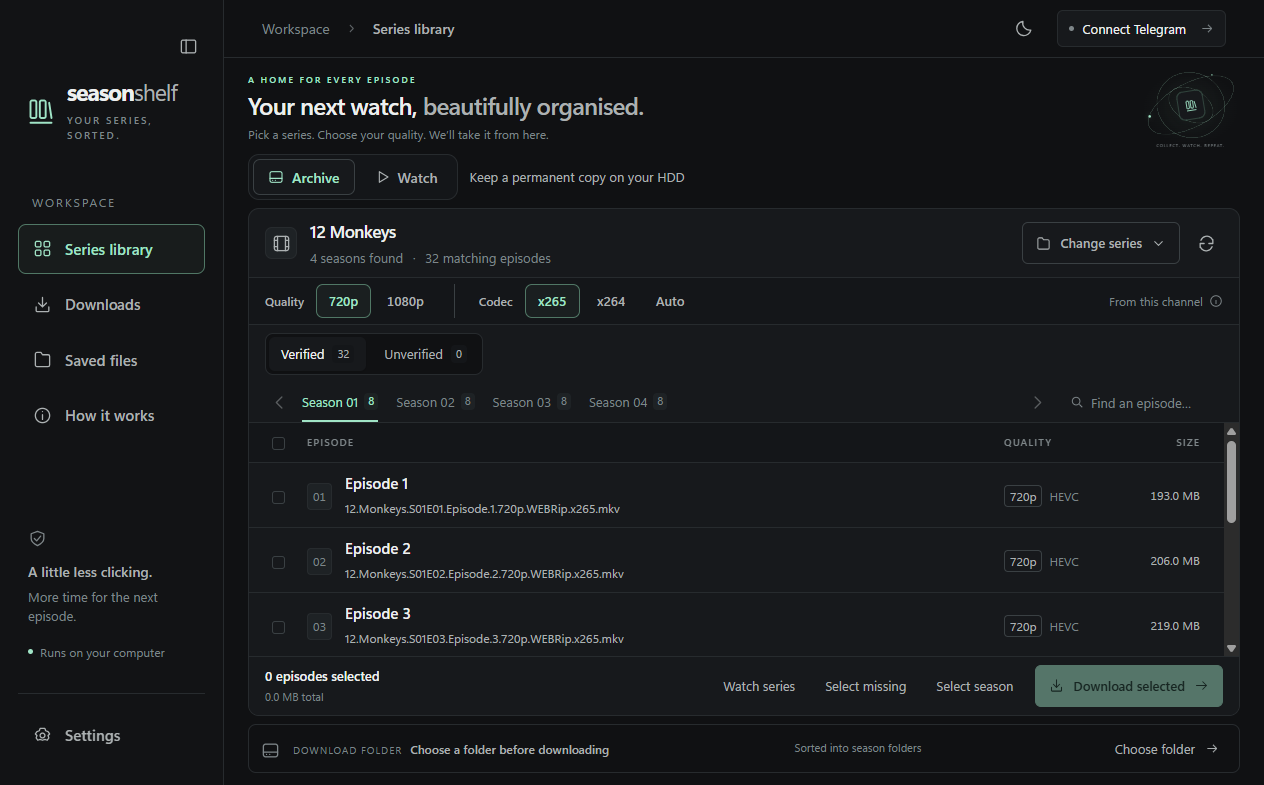
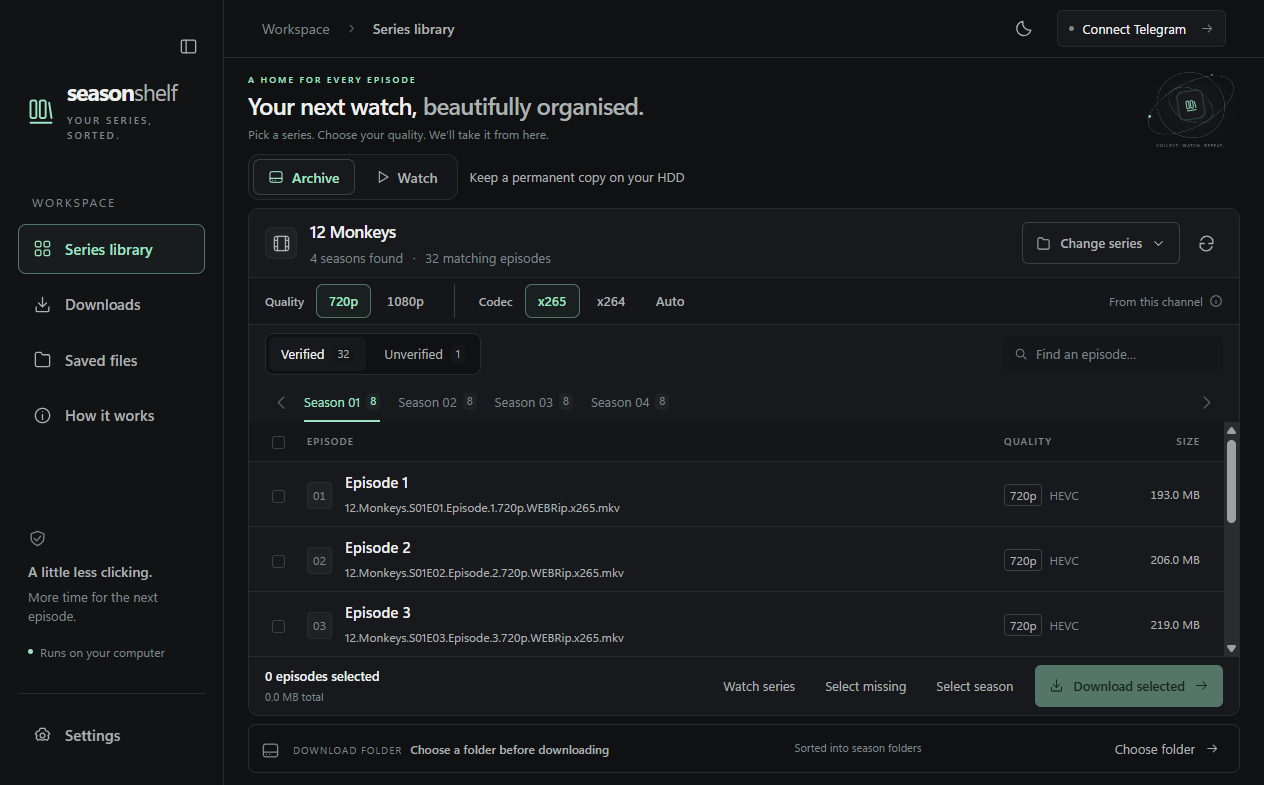
ci: add repository labels, contribution guidance and guarded releases

diff --git a/docs/PROJECT_WORKFLOW.md b/docs/PROJECT_WORKFLOW.md
@@ -1,0 +1,82 @@
+# Branches, PRs and releases
+
+## Current repository state
+
+- Default branch: `master` (not `main`). Renaming is optional; do not change it while an open stack depends on it.
+- PR #1: `feat/discovery-recovery-and-compact-ui` -> `master`.
+- New child branch: `feat/workspace-polish-and-project-workflow`, created from that PR branch. The first child commit is `5082974`; the parent PR branch was not pushed or amended by this task.
+- No repository rulesets were returned by the GitHub API during this audit. Classic branch protection is a separate setting and is not assumed absent.
+- Git SSH push works. Local GitHub CLI authentication returned HTTP 401, but the GitHub connector can inspect this repository. Labels are synchronized by an authenticated repository Actions job.
+
+## Recommended model: GitHub flow
+
+Use short-lived branches and merge reviewed PRs into `master`. A permanent `develop` branch is unnecessary for the current project size. Keep `master` working; a release is an explicitly tagged, tested snapshot rather than every merge.
+
+| Work | Branch name | Base |
+| --- | --- | --- |
+| New feature | `feat/123-series-watch` | Updated `master` |
+| Bug fix | `fix/124-search-focus` | Updated `master` |
+| Refactoring | `refactor/queue-persistence` | Updated `master` |
+| Documentation | `docs/contributor-guide` | Updated `master` |
+| Dependencies/tooling | `chore/update-electron` | Updated `master` |
+| Version preparation | `chore/release-0.2.0` | Updated `master` |
+| Work requiring an open PR | Descriptive feature/fix branch | That PR's branch; declare the dependency |
+
+Issue numbers are optional. Avoid personal names, dates and long-lived “working”, “dev” or “latest” branches.
+
+### The current stack
+
+A PR from the new child branch should initially target `feat/discovery-recovery-and-compact-ui`, so reviewers see only its new commits. No new PR has been opened automatically in this task.
+
+Merge PR #1 first. Then move the child work onto the updated `master` and retarget its PR. If the parent used a merge commit, a normal base update is usually enough. If it was squash-merged, Git sees different parent commit IDs: simply changing the PR base can show duplicate changes.
+
+For an exclusively owned child branch, save the old parent tip before merging, then use `git rebase --onto origin/master <old-parent-tip> <child-branch>` and `git push --force-with-lease`. Never blindly force-push or rewrite somebody else's branch. A safer shared-branch alternative is a fresh branch from updated `master` with only the child commits cherry-picked. These are maintenance instructions; no rebase, merge or force push was performed here.
+
+## PR and history policy
+
+Prefer **squash and merge** for independent short-lived PRs: one reviewed outcome becomes one useful `master` commit. Use Conventional Commit-style PR titles. The PR keeps discussion and intermediate commits accessible; the mainline stays easy to scan and revert. Avoid merging unrelated fixes, refactors and release work together.
+
+Recommended repository settings (not silently applied): require PRs and the `Windows checks` status check; block force pushes/deletion on `master`; resolve review conversations; allow squash merges. For a solo maintainer, do not require an impossible self-approval. Add one independent approval when another maintainer is available. Configure checks after CI has reported its first run.
+
+Use tags for versions, labels for issue/PR categorization, and milestones for a planned release. None of these replaces a focused PR description.
+
+## Labels
+
+The source of truth is [.github/labels.json](../.github/labels.json). `Sync repository labels` creates/updates these labels without deleting other labels. It runs when the definitions or sync script/workflow change on a pushed branch, and can be manually run after it reaches the default branch. It only needs repository contents read and issues write permissions.
+
+| Category | Labels | Rule |
+| --- | --- | --- |
+| Change type | `bug`, `enhancement`, `documentation`, `maintenance` | Pick the primary type |
+| Area | `area: ui`, `area: downloads`, `area: telegram`, `area: desktop`, `area: release` | Add the affected area(s) |
+| Priority | `priority: high` | Use sparingly for high-impact work; ordinary work needs no priority label |
+| Dependency | `blocked` | State the dependency in the issue/PR |
+| Contributors | `good first issue`, `help wanted` | Add only after scope and acceptance criteria are ready |
+
+Do not create “in review”, “merged” or “done” labels; GitHub already tracks these states.
+
+## CI versus release
+
+| Event | Workflow | Result |
+| --- | --- | --- |
+| PR or development branch push | `CI` | Install dependencies, syntax checks, tests, label-definition validation; no installer/publishing |
+| Label definition change | `Sync repository labels` | Create/update the configured repository labels |
+| Stable `vX.Y.Z` tag push | `Windows release` | Runs only when `RELEASES_ENABLED=true`; validates version and ancestry, tests, builds signed NSIS artifacts and publishes them |
+
+The release workflow already performs both artifact construction and publication. **A second build workflow is not required.** `npm run release:win` invokes electron-builder with publishing enabled; it produces the installer, blockmap and update manifest in that same job and uploads them to GitHub Releases.
+
+Originally, any `v*` tag matching package.json could publish immediately. The revised workflow is disabled by default through the `RELEASES_ENABLED` repository variable. It also requires a stable semantic version, a commit reachable from `origin/master`, and code signing. No variable was enabled, tag pushed, artifact built or release published in this task.
+
+### When ready to release
+
+1. Choose the project license, configure signing, test a signed installation/update cycle, and configure required CI checks.
+2. Create a release PR with matching package.json/package-lock.json version and reviewed release notes; merge it into `master` after checks pass.
+3. A maintainer enables `RELEASES_ENABLED=true`. Protect `v*` tags with a ruleset if desired.
+4. Tag the intended merged commit, for example `v0.2.0`, and push that single tag. Never use a broad `git push --tags` as a casual development command.
+5. The one release workflow validates, tests, packages and publishes. Check the GitHub Release contains the EXE, blockmap and `latest.yml`; installed apps discover that manifest.
+6. Never move or reuse a published version tag. Fix a bad release with a new patch version. Beta channels require a separate intentional policy before enabling them; the current workflow accepts stable versions only.
+
+GitHub normally generates source archives for a tag/release; those archives are **not** an Electron installer. Our workflow builds the Windows application assets explicitly.
+
+## Sources
+
+This recommendation follows [GitHub flow](https://docs.github.com/en/get-started/using-github/github-flow), [GitHub's merge-method guidance](https://docs.github.com/en/pull-requests/reference/pull-request-merges), and [workflow event documentation](https://docs.github.com/en/actions/reference/workflows-and-actions/events-that-trigger-workflows). Repository-specific claims above come from the checked-in workflows and the GitHub repository/PR audit.

diff --git a/docs/RELEASES.md b/docs/RELEASES.md
@@ -11,15 +11,16 @@ If packaging in a restricted environment, set `ELECTRON_BUILDER_CACHE` to a writ
 ## Publish a new version
 
 1. Finish the changes and increment the version in package.json and package-lock.json, for example with `npm.cmd version patch --no-git-tag-version`.
-2. Commit the release version and changes. Merge the intended release into the release branch first.
-3. Create and push a matching version tag, for example `v0.1.1`. This is the publishing action: the added Windows release workflow runs checks and uploads the installer and metadata to GitHub Releases.
-4. Confirm the release is public and contains the `.exe`, `.exe.blockmap` and `latest.yml`. Preserve all three files from the same build. A private repository needs a separate public release repository or a different distribution design; do not embed a GitHub access token in the desktop app.
+2. Commit the release version and changes. Merge the intended release into `master` first, after CI passes.
+3. Configure Windows signing and deliberately set the repository variable `RELEASES_ENABLED=true` when ready. Until then the tag workflow skips release jobs.
+4. Create and push a matching stable version tag, for example `v0.1.1`, on a commit already merged into `master`. The one release workflow validates ancestry/version, runs checks, builds signed artifacts and uploads them to GitHub Releases. Unsigned release builds fail.
+5. Confirm the release is public and contains the `.exe`, `.exe.blockmap` and `latest.yml`. Preserve all three files from the same build. A private repository needs a separate public release repository or a different distribution design; do not embed a GitHub access token in the desktop app.
 
 Alternatively, a maintainer can run `npm.cmd run release:win` in an environment with an appropriately scoped `GH_TOKEN`. Do not put that token in a source file, client setting or committed environment file.
 
 ## Client behavior
 
-Installed builds check shortly after startup and daily. Settings has Check for updates, Download update, automatic download preference, and Restart and install. Development builds do not download updates. Automatic downloads are optional; installation is explicit and blocked during active transfers, naming, scanning, authentication, discovery or a watcher check.
+Installed builds check shortly after startup and daily. Available updates download automatically. A ready update offers Restart now or Not now; deferred updates install on the next launch after verification. Development builds do not download updates. Installation is blocked during active transfers, naming, scanning, authentication, discovery or a watcher check.
 
 Signing is not configured. Before broad public distribution, configure a publisher-controlled Windows signing identity and follow electron-builder's signing setup. Never describe an unsigned installer as signed merely because the build log includes a signing step. HTTPS release hosting and update checksums are present but are not a substitute for publisher identity.
 
@@ -44,3 +45,5 @@ See [electron-builder v26 Windows signing documentation](https://www.electron.bu
 ### Deferred updates
 
 The pinned electron-updater 6.x implementation rechecks releases on startup and verifies the cached download before a deferred install. It does not use the newer 7.x `autoInstallEvent` API. This currently needs network access on the next launch. Development builds do not check/install real updates.
+
+See [the full branch, PR and release policy](PROJECT_WORKFLOW.md). Normal CI never packages an installer. No extra artifact-building workflow is needed: the release job already does that before publishing.

diff --git a/CONTRIBUTING.md b/CONTRIBUTING.md
@@ -1,0 +1,52 @@
+# Contributing to Season Shelf
+
+Thanks for helping make the app easier to use and maintain. The project is in development; a source-code license has not yet been selected. A public repository alone does not grant an open-source license. Please resolve the license choice with the maintainer before planning substantial third-party code contributions.
+
+## Start small
+
+- Check existing issues and PRs. Describe the problem and desired behaviour before large changes.
+- `good first issue` means a scoped task with reproduction steps and acceptance criteria. `help wanted` means contributions are actively welcome.
+- Do not include Telegram credentials, sessions, private chat content, phone numbers, media files or personal file paths in issues, screenshots or tests.
+
+## Branch and commit
+
+The default branch is currently **master**. New independent work starts from an up-to-date `master`; there is no permanent `develop` branch.
+
+```powershell
+git switch master
+git pull --ff-only
+git switch -c fix/123-search-focus
+npm.cmd ci
+npm.cmd run dev
+```
+
+Use `feat/`, `fix/`, `docs/`, `refactor/` or `chore/` plus a short kebab-case description. An issue number is useful, not mandatory. Keep one coherent outcome per branch/PR. Dependent work may branch from another feature branch, but state that dependency and target that parent branch until its changes land.
+
+Commit titles describe the result: `fix(ui): keep library controls stable for empty channels`. Use `feat`, `fix`, `docs`, `refactor`, `test`, `chore` or `ci`. Avoid generic titles such as “updates” or “final fixes”.
+
+## Make a reviewable change
+
+- Keep parsing/queue/file rules in `src/core`, privileged services in `src/desktop`, and presentation in `src/ui`.
+- Extract a module when it owns a distinct responsibility. Avoid speculative frameworks and broad rewrites bundled with a small feature.
+- Validate renderer IPC input in the main process. Preserve context isolation, sandboxing and the preload allowlist.
+- Never overwrite different media. Preserve staging, byte verification, recovery journals and Recycle Bin safeguards.
+- Use synthetic fixtures. Add regression tests for meaningful behaviour; do not add tests that merely repeat the implementation.
+- UI changes must cover dark/light appearance, narrow windows, keyboard focus, empty channels, unverified-only channels and long filenames where relevant.
+
+```powershell
+npm.cmd run check
+npm.cmd test
+node scripts/build-preview.mjs
+```
+
+Preview output is committed when the UI changes. Installer builds are not part of the ordinary development loop. Explain any live Telegram or Windows-only verification you could not perform.
+
+## Open the PR
+
+Target `master` for independent work. Use the PR template: problem, resulting behaviour, validation and material limitations. Include a screenshot for UI changes. Apply one change-type label and relevant area labels. Keep work-in-progress PRs as drafts; do not use labels to duplicate draft/review status.
+
+Prefer squash merging independent short-lived PRs with a descriptive final title. Delete merged branches. A stack needs special care after a parent is squash-merged; see [the project workflow](docs/PROJECT_WORKFLOW.md) before rebasing or force-pushing.
+
+## Releases
+
+Contributors should not create release tags as part of normal feature work. Version bumps and release notes belong in a maintainer-reviewed release PR. Only tag a tested commit already merged into `master`, after publishing has been enabled and signing configured. See [release instructions](docs/RELEASES.md).

diff --git a/README.md b/README.md
@@ -1,11 +1,14 @@
-<div align="center">
-  <img src="src/desktop/assets/icon.png" width="88" alt="Season Shelf icon">
-  <h1>Season Shelf</h1>
-  <p><strong>Your series. Your folders. A little less clicking.</strong></p>
-  <p>A Windows desktop companion for organising and downloading episode files from Telegram.</p>
-  <p><a href="#get-started">Get started</a> · <a href="docs/DEVELOPMENT.md">Development</a> · <a href="docs/NEXT_SESSION.md">Roadmap</a></p>
-  <p><strong>In development</strong> · Electron · JavaScript · SQLite · Teleproto</p>
-</div>
+<p align="center"><img src="docs/assets/readme-banner.svg" alt="Season Shelf — Your series, beautifully organised" width="100%"></p>
+
+<p align="center">
+  <a href="https://github.com/Harshana-Rathnayaka/season-shelf/actions/workflows/ci.yml"><img src="https://github.com/Harshana-Rathnayaka/season-shelf/actions/workflows/ci.yml/badge.svg" alt="CI"></a>
+  <img src="https://img.shields.io/badge/platform-Windows-357EC7?style=flat-square" alt="Windows">
+  <img src="https://img.shields.io/badge/status-in_development-A0E4C6?style=flat-square" alt="In development">
+</p>
+<p align="center"><a href="#get-started">Get started</a> ? <a href="CONTRIBUTING.md">Contribute</a> ? <a href="docs/PROJECT_WORKFLOW.md">Branches &amp; releases</a> ? <a href="docs/NEXT_SESSION.md">Roadmap</a></p>
+
+> **A calmer way to build your collection.** Choose episodes in Telegram channels. Keep the files in folders you control.
+
 
 ![Season Shelf series library, using illustrative sample data](docs/assets/library-preview.png)
 
@@ -66,7 +69,7 @@ Filename normalization uses completed, app-managed files from the same season an
 
 ## Updates, when releases begin
 
-The updater targets this repository's GitHub Releases. Installed builds check at startup and daily, download available updates, then offer **Restart now** or **Not now**. Deferred updates install on the next launch after release and download verification; that check requires connectivity. Active work must finish before installation.
+Release publishing is disabled until the maintainer enables `RELEASES_ENABLED` and configures signing. The updater targets this repository's GitHub Releases. Installed builds check at startup and daily, download available updates, then offer **Restart now** or **Not now**. Deferred updates install on the next launch after release and download verification; that check requires connectivity. Active work must finish before installation.
 
 Development mode does not install updates. Packaging is intentionally separate from everyday development. See [release and signing instructions](docs/RELEASES.md).
 

diff --git a/docs/NEXT_SESSION.md b/docs/NEXT_SESSION.md
@@ -1,3 +1,12 @@
+## Current branch: workspace polish and repository workflow
+
+- Created feat/workspace-polish-and-project-workflow from feat/discovery-recovery-and-compact-ui and pushed the existing work as 5082974. PR #1 remains open against master; its branch was not modified.
+- Fixed search focus on its rounded container, stable quality/tab/search/season layout slots including empty and unverified-only channels, and redesigned the bandwidth/schedule form. Disabling the schedule retains its stored hours.
+- Verified actual Electron geometry across six channel/tab combinations: tabs x=265 and search x=1003 in every case, with aligned centers. Visually inspected focus, empty/unverified states and transfer controls. Added DOM regressions and rebuilt the sample preview; no installer built.
+- Added branded README artwork, contributor and PR guides, CI, 13 canonical label definitions plus a sync workflow, and a guarded release workflow. Tags do not publish unless RELEASES_ENABLED=true, version/ancestry checks pass and signing succeeds. All tag releases must be stable versions merged into master.
+- Repository audit: default master, PR #1 parent feature branch -> master, public repository, no rulesets returned (classic protection not assumed absent). CLI API login failed; the GitHub connector works for inspection. Labels are created via repository Actions, with final outcome recorded below.
+- No new PR, merge, force push, protection change or release was performed. A child PR should initially target the parent feature branch. See docs/PROJECT_WORKFLOW.md for the stack and squash/rebase caveat.
+
 ## 12 September: settings, reset controls, sign-in and filename follow-up
 
 Completed in source (development only; DO NOT rebuild/publish installers until requested):

diff --git a/docs/VALIDATION.md b/docs/VALIDATION.md
@@ -147,3 +147,6 @@ The final local suite contains 16 passing tests. DOM interaction tests use JSDOM
 The build environment could not launch Electron because native desktop/socket facilities were restricted. The Cloud browser blocked localhost and local-file preview by policy. No rendered screenshot or visual verification is claimed. `docs/preview.html` is a self-contained sample-only interface for manual review.
 
 Final packaging check: NSIS build completed; all 34 packaged source/assets match the workspace and latest.yml SHA-512 matches the installer. Authenticode status is NotSigned. No release was published.
+
+## Library positioning and project workflow
+104 tests pass; syntax and workflow YAML checks pass. Actual Electron checks cover mixed, unverified-only and empty catalogues on both tabs. Identical tab/search X positions and aligned centers across all six cases. Reviewed focused search and redesigned transfer controls. No EXE rebuilt.

diff --git a/.github/pull_request_template.md b/.github/pull_request_template.md
@@ -1,0 +1,15 @@
+## Problem and resulting behaviour
+
+Describe the user-visible problem and the behaviour after this change.
+
+## Validation
+
+- [ ] Relevant automated checks pass.
+- [ ] UI changes include screenshots and empty/narrow/keyboard states where applicable.
+- [ ] Recovery, data retention and existing-file safety were considered for file operations.
+
+List any live or platform checks that remain unverified.
+
+## Dependencies or limitations
+
+Link the parent PR if this is stacked work. Mention migrations, changed settings, known limits or follow-up issues when relevant.
